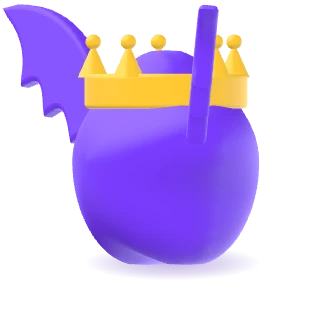
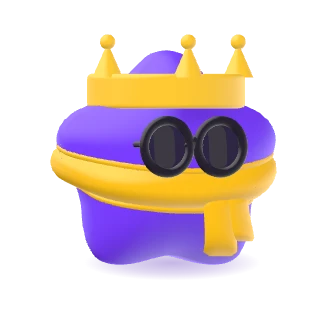
Zzz for the asleep mood; wings removed (23 accessories); accessories re-seat when the shape changes
- dort: two rising z strokes drawn over every render (positions from zSommeil, like the dashboard)
- ailes and diable moved to RETIRES, card variants and hero crowd updated, images re-rendered
- shape change: Accessoires3d.invalider() after the morph so the pieces are laid out on the final body (test reproduces the bug)

Claude-Session: https://claude.ai/code/session_01W5fu7ByrrBFSvr8x7FWJfj

diff --git a/src/ui/trois/accessoires3d.test.ts b/src/ui/trois/accessoires3d.test.ts
@@ -1,3 +1,4 @@
+import { readFileSync } from 'node:fs'
 import { describe, expect, it } from 'vitest'
 import { BufferAttribute, BufferGeometry, Box3, MeshStandardMaterial, type Mesh, type Object3D } from 'three'
 import { BotEngine } from '@/bot/engine'
@@ -82,8 +83,8 @@ const corpsDe = (f: string) => {
 }
 
 describe('catalogue', () => {
-  it('25 accessoires, repartis sur les cinq emplacements (sans taches de rousseur, grain de beaute, moustache ni moustaches de chat)', () => {
-    expect(CATALOGUE.length).toBe(25)
+  it('23 accessoires, repartis sur les cinq emplacements (sans taches de rousseur, grain de beaute, moustache ni moustaches de chat)', () => {
+    expect(CATALOGUE.length).toBe(23)
     for (const e of EMPLACEMENTS) expect(parEmplacement(e).length).toBeGreaterThanOrEqual(1)
     expect(CATALOGUE.some((a) => ['chat', 'rousseur', 'grain', 'moustache'].includes(a.id))).toBe(false)
   })
@@ -164,7 +165,7 @@ describe('ancrage sur les 12 formes', () => {
 })
 
 describe('combinaison des emplacements', () => {
-  const tout: Selection = { tete: 'haut-de-forme', yeux: 'soleil', visage: 'joues', bas: 'papillon', dos: 'ailes' }
+  const tout: Selection = { tete: 'haut-de-forme', yeux: 'soleil', visage: 'joues', bas: 'papillon', dos: 'sac' }
 
   it.each(FORMES)('%s : les cinq emplacements ensemble, sans erreur', (forme) => {
     const { R } = corpsDe(forme)
@@ -200,7 +201,7 @@ describe('combinaison des emplacements', () => {
       for (const g of acc.groupe.children) expect(sommetsFinis(g), JSON.stringify(sel)).toBe(true)
       acc.liberer()
     }
-  })
+  }, 30000)
 
   it('la zone de la tete reste au-dessus de celle du cou : pas de collision entre emplacements du haut et du bas', () => {
     for (const forme of ['cercle', 'squircle', 'nuage', 'oeuf']) {
@@ -249,7 +250,7 @@ describe('liste des emplacements', () => {
 describe('retours de Robin du 05/11/2026', () => {
   it('les accessoires retires ne sont plus au catalogue ni resolus, mais restent listes dans RETIRES', () => {
     expect(RETIRES.map((r) => `${r.emplacement}:${r.id}`).sort()).toEqual(
-      ['bas:bandana', 'bas:clochette', 'bas:medaille', 'bas:cravate', 'tete:bonnet', 'tete:bob', 'dos:queue', 'yeux:sommeil', 'tete:fete', 'tete:oreilles', 'visage:larme', 'visage:pansement', 'yeux:domino', 'yeux:ski', 'visage:chat', 'visage:rousseur', 'visage:grain', 'bas:moustache'].sort()
+      ['bas:bandana', 'bas:clochette', 'bas:medaille', 'bas:cravate', 'tete:bonnet', 'tete:bob', 'dos:queue', 'yeux:sommeil', 'tete:fete', 'tete:oreilles', 'visage:larme', 'visage:pansement', 'yeux:domino', 'yeux:ski', 'visage:chat', 'visage:rousseur', 'visage:grain', 'bas:moustache', 'dos:ailes', 'dos:diable'].sort()
     )
     for (const r of RETIRES) {
       expect(CATALOGUE.some((a) => a.emplacement === r.emplacement && a.id === r.id)).toBe(false)
@@ -350,6 +351,8 @@ describe('accessoires v3 (retours de Robin du 05/11/2026)', () => {
   it('la moustache, les taches de rousseur, le grain de beaute et les moustaches de chat sont retires (09/11/2026, code garde)', () => {
     expect(resoudre('bas', 'moustache')).toBeNull()
     expect(resoudre('visage', 'chat')).toBeNull()
+    expect(resoudre('dos', 'ailes')).toBeNull()
+    expect(resoudre('dos', 'diable')).toBeNull()
     expect(RETIRES.some((r) => r.id === 'moustache')).toBe(true)
   })
 
@@ -679,5 +682,39 @@ describe('coeur : les chapeaux reposent SUR les deux bosses, sans s enfoncer dan
       const { R } = corpsDe(f)
       expect(R.tete.y, f).toBeLessThanOrEqual(R.haut)
     }
+  })
+})
+
+describe('changement de forme du personnalisateur (09/11/2026)', () => {
+  const haut = (acc: Accessoires3d) => new Box3().setFromObject(acc.groupe).min.y
+
+  it('bug reproduit : meme cle, autre corps -> les pieces restent la ou elles etaient ; invalider() les recale', () => {
+    const a = corpsDe('cercle').R
+    const b = corpsDe('triangle').R
+    expect(Math.abs(a.haut - b.haut)).toBeGreaterThan(1) // les deux corps n'ont pas le meme sommet
+    const sel: Selection = { tete: 'casquette' }
+    const m = mat()
+    const acc = new Accessoires3d()
+    acc.maj(sel, 'x|forme', m, () => a)
+    const posee = haut(acc)
+    // la forme change mais la cle ne voit que le nom du style et de la forme, deja pris : rien n'est recalcule
+    acc.maj(sel, 'x|forme', m, () => b)
+    expect(haut(acc)).toBeCloseTo(posee, 5)
+    // apres invalider(), la pose suit le nouveau corps, comme une construction neuve
+    acc.invalider()
+    acc.maj(sel, 'x|forme', m, () => b)
+    const neuf = new Accessoires3d()
+    neuf.maj(sel, 'x|forme', m, () => b)
+    expect(haut(acc)).toBeCloseTo(haut(neuf), 5)
+    expect(Math.abs(haut(acc) - posee)).toBeGreaterThan(0.5)
+    acc.liberer()
+    neuf.liberer()
+  })
+
+  it('MochiBot invalide la pose des accessoires apres le morph quand la forme change', () => {
+    const src = readFileSync(new URL('../../components/MochiBot.vue', import.meta.url), 'utf8')
+    expect(src).toContain('invaliderAccessoires3d()')
+    expect(src).toMatch(/watch\(\s*\(\) => props\.shape/)
+    expect(src).toContain('BotEngine.SHAPE_MORPH')
   })
 })

diff --git a/src/components/MochiBot.vue b/src/components/MochiBot.vue
@@ -20,7 +20,7 @@ import { DEMI_VIEWBOX, RAYON } from '@/bot/repere'
 import { STATE_BY_ID, type StateId } from '@/bot/states'
 import { dessinPorte, porteSvg, type PorteId } from '@/bot/portes'
 import { ACCESSOIRE_BY_ID, ancreDuCorps, type AccessoireId } from '@/bot/accessoires'
-import { composer, type Geste } from '@/bot/gestes'
+import { composer, zSommeil, type Geste } from '@/bot/gestes'
 import { Humeurs, REACTION_DE_EVENEMENT, doitRedessiner, moodDe, type ReactionId } from '@/bot/humeurs'
 import { pixellise, pixellisePrims } from '@/ui/pixel'
 import { DOUCEUR_DEFAUT, RENDU_3D_DEFAUT, type Douceur, type Rendu3d } from '@/ui/trois/rendu3d'
@@ -262,6 +262,27 @@ const ancre = computed(() =>
 /** Mouvement reduit : les humeurs deviennent des images fixes (le visage reste, le corps ne bouge plus). */
 const reduit = ref(false)
 const humeurs = new Humeurs(moodDe(props.mood), { base: expression.value })
+/**
+ * Petits « z » de l'humeur `dort` : deux traits en forme de z qui montent au-dessus du corps et s'effacent (positions
+ * de `zSommeil`, en rayons, comme dans le tableau de bord de l'entreprise). Traits dessines en SVG par-dessus tous les
+ * rendus (2D et 3D). Mouvement reduit ou image figee : une seule image, a un instant ou ils se lisent bien.
+ */
+const zMarques = computed(() => {
+  if (moodDe(props.mood) !== 'dort') return []
+  return zSommeil(reduit.value || props.frozenAt !== undefined ? 1.2 : temps.value).map((z, i) => {
+    // decales d'un cran vers l'exterieur par rapport au tableau de bord : en 3D le corps est plus large qu'une silhouette plate
+    const x = z.x * 100 + 18
+    const y = z.y * 100 - 10
+    const k = z.taille * 100
+    return {
+      i,
+      d: `M${(x - k / 2).toFixed(1)} ${(y - k / 2).toFixed(1)}h${k.toFixed(1)}l${(-k).toFixed(1)} ${k.toFixed(1)}h${k.toFixed(1)}`,
+      op: reduit.value || props.frozenAt !== undefined ? 0.8 - 0.3 * i : z.opacite
+    }
+  })
+})
+// plus foncee que le corps : le z se lit aussi quand il passe devant lui
+const couleurZ = computed(() => mixHex(ink.value, '#1a1630', 0.5))
 const humeurActive = computed(() => moodDe(props.mood) !== null)
 
 const gesteBase = (t: number): Geste | undefined =>
@@ -518,6 +539,25 @@ function dessiner3d() {
     emit('pret')
   }
 }
+
+/**
+ * Changement de forme : le corps se transforme pendant `SHAPE_MORPH`, et les accessoires (en 3D) etaient poses sur la
+ * forme a mi-chemin, puis gardes en cache tant qu'on ne changeait pas d'accessoire. Une fois le morph fini, on oublie
+ * leur pose et on redessine : ils se recalent sur la forme finale.
+ */
+let minuteurForme = 0
+watch(
+  () => props.shape,
+  () => {
+    clearTimeout(minuteurForme)
+    minuteurForme = window.setTimeout(() => {
+      if (!vraie3d.value || !m3d.value) return
+      m3d.value.invaliderAccessoires3d()
+      dessiner3d()
+    }, BotEngine.SHAPE_MORPH * 1000 + 120)
+  }
+)
+onBeforeUnmount(() => clearTimeout(minuteurForme))
 
 // `frame` est un shallowRef relance par `triggerRef` : le watcher suit chaque image
 watch([frame, vraie3d, toile, ink, pxToile, rendu3dEff, () => props.douceur, () => props.reflet, () => props.yaw, () => props.porte, themeEff, () => props.accessoires, () => props.ombre, () => props.ombrage, () => contourEffectif.value, () => props.epaisseurContour], dessiner3d, { flush: 'post' })
@@ -1000,7 +1040,7 @@ function dotAttrs(dot: BotFrame['dots'][number]) {
     :viewBox="`${-VB} ${-VB} ${VB * 2} ${VB * 2}`"
     role="img"
     :aria-label="props.label ?? t('app.botAria')"
-    :style="acc || props.porte ? 'overflow: visible' : undefined"
+    :style="acc || props.porte || zMarques.length ? 'overflow: visible' : undefined"
     @pointerenter="onSurvol"
     @pointermove="onSurvol"
     @pointerleave="onQuitte"
@@ -1239,6 +1279,9 @@ function dotAttrs(dot: BotFrame['dots'][number]) {
 
     <g v-if="objetSvg" :opacity="decorAlpha" :transform="objetDecalage || undefined" v-html="objetSvg" />
     </template>
+    <g v-if="zMarques.length" data-zzz="1" fill="none" :stroke="couleurZ" stroke-width="10" stroke-linecap="round" stroke-linejoin="round">
+      <path v-for="z in zMarques" :key="z.i" :d="z.d" :opacity="z.op" />
+    </g>
     <!-- accessoire porte : meme description pour tous les rendus (`portes.ts`) -->
     <g v-if="porteTexte" data-porte="1" v-html="porteTexte" />
     <g v-if="portePixels" data-porte="1" shape-rendering="crispEdges">

diff --git a/src/bot/emplacements.ts b/src/bot/emplacements.ts
@@ -1,7 +1,7 @@
 /**
  * Accessoires 3D par EMPLACEMENTS combinables. Un accessoire au plus par emplacement, tous les
  * emplacements se cumulent : un Mochi peut porter un chapeau, des lunettes, une moustache, un noeud
- * papillon et des ailes en meme temps.
+ * papillon et un sac en meme temps.
  *
  * Ce fichier ne contient que le catalogue (noms, couleurs) : aucune geometrie, aucun `three`.
  *
@@ -15,7 +15,7 @@
  *   yeux   : a la hauteur des yeux (lunettes, masques)
  *   visage : joues et dessous des yeux (taches de rousseur...)
  *   bas    : le « cou » du corps, vers 72 % de la hauteur (noeud papillon, cravate, moustache, echarpe, collier...)
- *   dos    : les cotes et le dos (ailes, sac, cape, queue)
+ *   dos    : les cotes et le dos (sac, cape)
  */
 
 export type Emplacement = 'tete' | 'yeux' | 'visage' | 'bas' | 'dos'
@@ -88,8 +88,6 @@ export const CATALOGUE: AccessoireDef[] = [
   def('bas', 'perles', 'Collier de perles', C.creme, C.creme),
   def('bas', 'fleurs', 'Collier de fleurs', C.rose, C.jaune),
   // dos
-  def('dos', 'ailes', 'Ailes d’ange', C.creme, C.creme),
-  def('dos', 'diable', 'Ailes de chauve-souris', C.violet, C.violet),
   def('dos', 'sac', 'Sac à dos', C.orange, C.marine),
   def('dos', 'cape', 'Cape', C.rouge, C.rouge)
 ]
@@ -101,6 +99,9 @@ export const CATALOGUE: AccessoireDef[] = [
  * remettre un, le recopier dans `CATALOGUE`.
  */
 export const RETIRES: AccessoireDef[] = [
+  // v13 (09/11/2026, Robin) : les deux paires d'ailes (ange et chauve-souris) sont retirees
+  def('dos', 'ailes', 'Ailes d’ange', C.creme, C.creme),
+  def('dos', 'diable', 'Ailes de chauve-souris', C.violet, C.violet),
   // v12 (09/11/2026, Robin) : taches de rousseur, grain de beaute, moustache et moustaches de chat retires
   def('visage', 'chat', 'Moustaches de chat', C.noir, C.rose),
   def('visage', 'rousseur', 'Taches de rousseur', '#c8733a', '#c8733a'),

diff --git a/src/site/affiches.ts b/src/site/affiches.ts
@@ -85,12 +85,12 @@ export const VARIANTES: Variante[] = [
   { forme: 'cercle', corps: '#ffb400', acc: { tete: c('casque', M), yeux: 'soleil', bas: c('papillon', V) } },
   { forme: 'cercle', corps: '#ff3d9a', acc: { yeux: c('etoile', V), tete: c('ruban', P), visage: 'joues' } },
   { forme: 'cercle', corps: '#7a3cff', acc: { yeux: c('coeur', P), tete: 'toque', bas: 'fleurs' } },
-  { forme: 'cercle', corps: '#ff3d9a', acc: { dos: 'ailes', tete: c('ruban', V) }, dos: true },
-  { forme: 'etoile', corps: '#7a3cff', acc: { dos: 'diable', tete: 'couronne' }, dos: true },
+  { forme: 'cercle', corps: '#ff3d9a', acc: { tete: c('ruban', V), yeux: 'etoile', bas: 'papillon' } },
+  { forme: 'etoile', corps: '#7a3cff', acc: { tete: 'couronne', yeux: 'soleil', bas: c('echarpe', J) } },
   { forme: 'cercle', corps: '#00cfc0', acc: { dos: c('sac', R, M), tete: c('casquette', M) }, dos: true },
   { forme: 'nuage', corps: '#ffb400', acc: { dos: c('cape', V), tete: 'haut-de-forme' }, dos: true },
-  { forme: 'cercle', corps: '#1f8fff', acc: { dos: c('ailes', C), tete: 'fleur' }, dos: true },
-  { forme: 'squircle', corps: '#ff3d9a', acc: { dos: c('diable', R), tete: 'antenne' }, dos: true },
+  { forme: 'cercle', corps: '#1f8fff', acc: { tete: 'fleur', visage: 'joues', bas: 'perles' } },
+  { forme: 'squircle', corps: '#ff3d9a', acc: { tete: 'antenne', yeux: 'rondes', bas: 'fleurs' } },
   { forme: 'fleur', corps: '#7a3cff', acc: { dos: c('sac', J, M), tete: 'paille' }, dos: true },
   { forme: 'cercle', corps: '#ffb400', acc: { dos: c('cape', T), tete: c('beret', N) }, dos: true }
 ]

diff --git a/src/bot/zzz.test.ts b/src/bot/zzz.test.ts
@@ -1,0 +1,27 @@
+import { readFileSync } from 'node:fs'
+import { describe, expect, it } from 'vitest'
+import { zSommeil } from './gestes'
+import { DEMI_VIEWBOX } from './repere'
+
+describe('les « z » de l humeur dort', () => {
+  it('montent, restent dans le cadre et s effacent', () => {
+    for (let t = 0; t < 7; t += 0.25) {
+      for (const z of zSommeil(t)) {
+        // en rayons : x 100 = bord du corps ; le trait doit rester dans le viewBox
+        expect(Math.abs(z.x * 100) + (z.taille * 100) / 2 + 5).toBeLessThan(DEMI_VIEWBOX)
+        expect(Math.abs(z.y * 100) + (z.taille * 100) / 2 + 5).toBeLessThan(DEMI_VIEWBOX)
+        expect(z.opacite).toBeGreaterThanOrEqual(0)
+        expect(z.opacite).toBeLessThanOrEqual(0.8)
+      }
+    }
+    const y0 = zSommeil(0.1)[0]!.y
+    expect(zSommeil(0.9)[0]!.y).toBeLessThan(y0) // ils montent (y vers le bas)
+  })
+
+  it('MochiBot les dessine par-dessus tous les rendus quand l humeur est dort, une image fixe en mouvement reduit', () => {
+    const src = readFileSync(new URL('../components/MochiBot.vue', import.meta.url), 'utf8')
+    expect(src).toContain('data-zzz="1"')
+    expect(src).toContain("moodDe(props.mood) !== 'dort'")
+    expect(src).toMatch(/reduit\.value \|\| props\.frozenAt !== undefined \? 1\.2/)
+  })
+})

diff --git a/src/ui/trois/scene3d.ts b/src/ui/trois/scene3d.ts
@@ -317,6 +317,11 @@ export class Mochi3d {
     return this.acc3d.couleurs
   }
 
+  /** Refait la pose des accessoires au prochain rendu (voir `Accessoires3d.invalider`). */
+  invaliderAccessoires() {
+    this.acc3d.invalider()
+  }
+
   /** Dit quelle forme est rendue : son profil de volume (cube, prisme, dome...) en depend. */
   setForme(forme: string) {
     this.forme = forme
@@ -853,6 +858,11 @@ export function webglDisponible(): boolean {
  * (floue en realiste, en aplat dans les variantes flat), puis le corps 3D. `yaw` (radians)
  * fait tourner le corps sur lui-meme autour de l'axe vertical, la camera et la lumiere restent fixes.
  */
+/** Forme (ou autre geometrie du corps) changee : les accessoires se replacent des que le corps a fini de se transformer. */
+export function invaliderAccessoires3d() {
+  partage?.mochi.invaliderAccessoires()
+}
+
 export function rendreAvatar(
   cible: HTMLCanvasElement,
   frame: BotFrame,

diff --git a/src/site/bandes.ts b/src/site/bandes.ts
@@ -35,7 +35,7 @@ export const BANDES: DefBande[] = [
   { emplacement: 'yeux', titre: 'Glasses', texte: 'Round, square, sun, heart, star and a monocle', sens: 'droite', duree: 60 },
   { emplacement: 'visage', titre: 'Face', texte: 'Blush', sens: 'gauche', duree: 66 },
   { emplacement: 'bas', titre: 'Neck', texte: 'Bow ties, scarves, necklaces', sens: 'droite', duree: 62 },
-  { emplacement: 'dos', titre: 'Back', texte: 'Wings, a backpack, a cape, seen from behind', sens: 'gauche', duree: 68 }
+  { emplacement: 'dos', titre: 'Back', texte: 'A backpack and a cape, seen from behind', sens: 'gauche', duree: 68 }
 ]
 
 /** Angle de vue par emplacement : trois quarts (le signe alterne d'une piece a l'autre) ; visage presque de face ; dos de trois quarts arriere. */

diff --git a/src/ui/trois/accessoires3d.ts b/src/ui/trois/accessoires3d.ts
@@ -1663,6 +1663,15 @@ export class Accessoires3d {
     this.groupe.add(this.ordiG)
   }
 
+  /**
+   * Oublie la pose en cache : le prochain `maj` reconstruit les pieces et refait les tirs de rayons sur le corps tel qu'il
+   * est a ce moment. Sert quand la forme change : la cle (style|forme) change tout de suite, mais le corps est encore en
+   * train de se transformer (morph), donc les reperes calcules a cet instant sont ceux d'une forme a mi-chemin.
+   */
+  invalider() {
+    this.cle = ''
+  }
+
   liberer() {
     this.vide()
     for (const g of this.ordiGeos) g.dispose()

diff --git a/src/site/catalog.ts b/src/site/catalog.ts
@@ -225,8 +225,6 @@ const ACC_EN: Record<string, string> = {
   echarpe: 'Scarf',
   perles: 'Pearl necklace',
   fleurs: 'Flower necklace',
-  ailes: 'Angel wings',
-  diable: 'Bat wings',
   sac: 'Backpack',
   cape: 'Cape'
 }

diff --git a/CHANGELOG.md b/CHANGELOG.md
@@ -7,9 +7,19 @@ Versioning: [Semantic Versioning](https://semver.org/spec/v2.0.0.html).
 
 ### Removed (for now)
 
+- The two pairs of wings (angel, bat): out of `CATALOGUE` (23 accessories), kept in `RETIRES`.
+
 - Freckles, beauty mark, moustache and cat whiskers: out of `CATALOGUE` (29 to 25 accessories), kept in `RETIRES`.
 - The jumping movement: the "Movement" section of the site, `src/bot/sauts.ts`, the isometric space `EspaceIso`
   and the lab's `#iso` view.
+
+### Fixed
+
+- Changing the shape left the accessories where they were laid out on the half-morphed body; they now re-seat once the morph ends.
+
+### Added
+
+- The `dort` mood shows small rising Z marks (all renderers).
 
 ### Changed (site)
 

diff --git a/docs/accessoires-emplacements.md b/docs/accessoires-emplacements.md
@@ -11,7 +11,7 @@ Cinq emplacements, un accessoire au plus par emplacement, tous cumulables :
 | `yeux` | ligne des deux yeux | lunettes rondes, carrees, coeur, masque de sommeil, lunettes de ski |
 | `visage` | sous les yeux, joues | moustache, pansement, taches de rousseur |
 | `bas` | « cou », vers 76 % de la hauteur, anneaux inclines | noeud papillon, echarpe, collier de perles |
-| `dos` | cotes et arriere | ailes, sac a dos, cape, queue |
+| `dos` | cotes et arriere | sac a dos, cape |
 
 ```ts
 mochi.setAccessoires({ tete: 'casquette', yeux: 'soleil', bas: 'papillon' })
